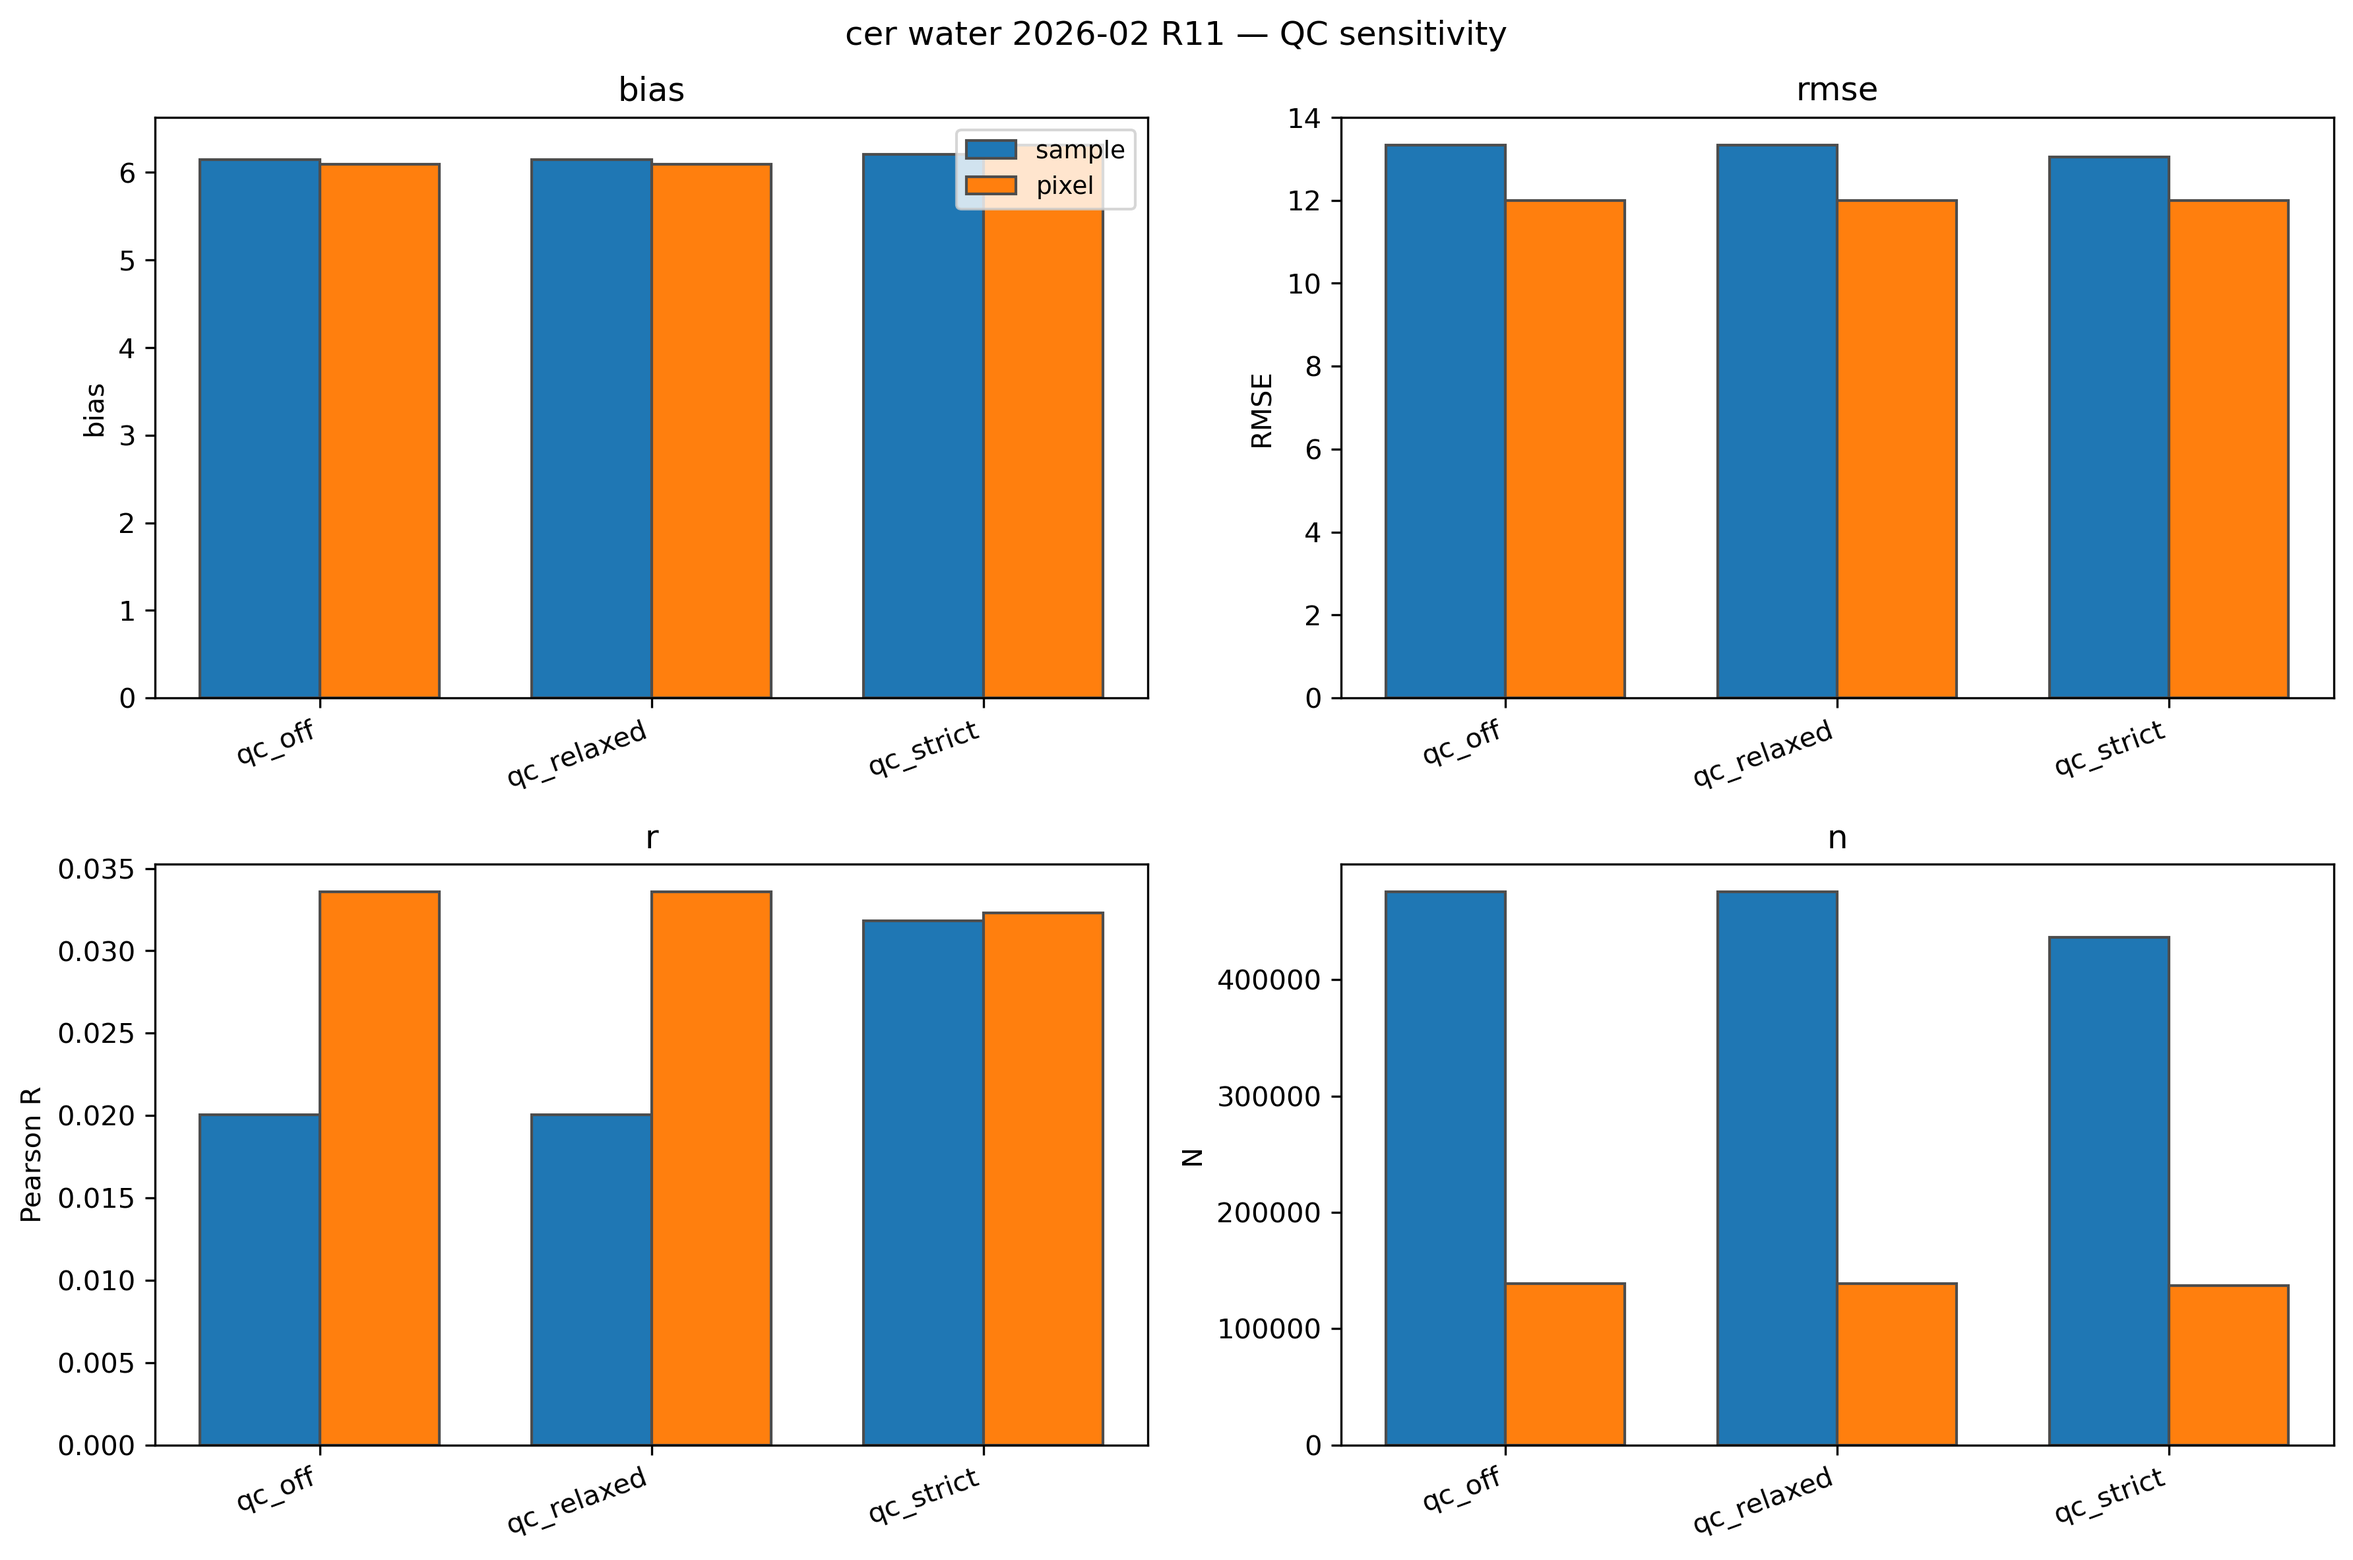
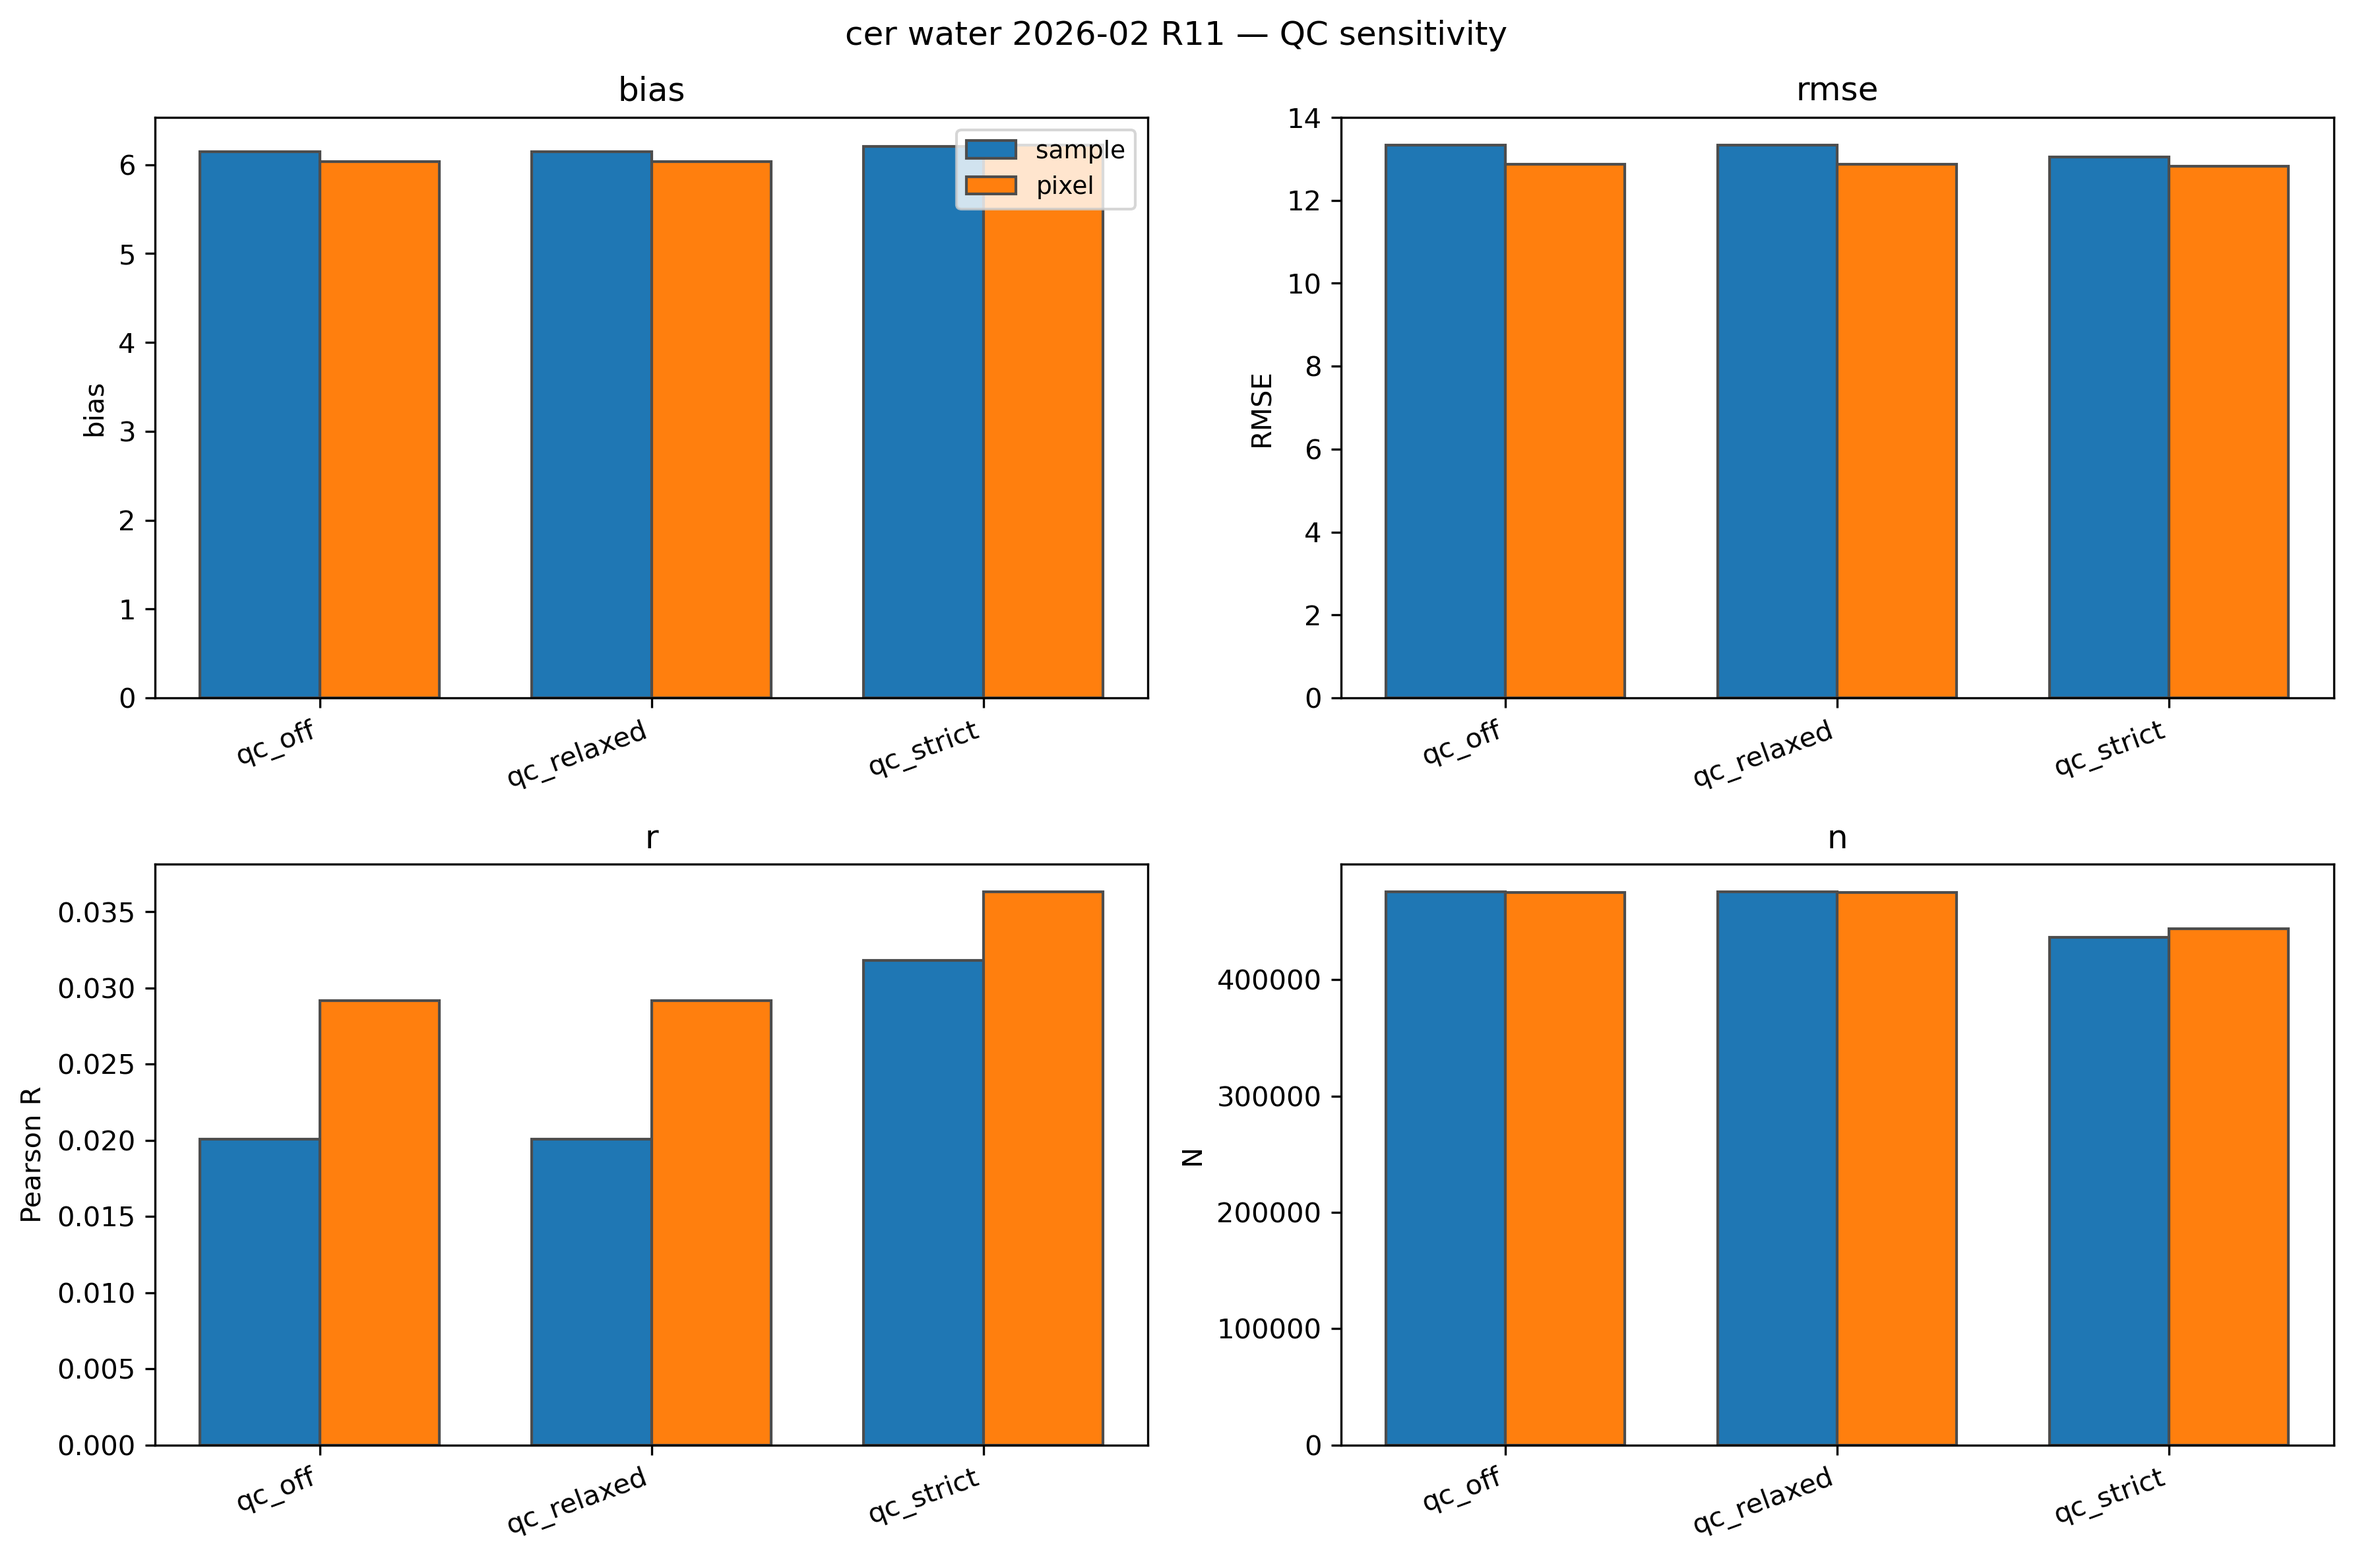
validation(synergy): redefine ice_present via liquid_classification == 3
Previously ice_present was set whenever any bin in the column had
ice_water_content > 0. Investigation of one marine-stratocumulus profile
showed ACM-CAP reports IWC > 0 in many non-cloud bins below cloud base
(drizzle / precipitation / virga). Cross-tabulation across a full frame
confirmed ~80% of bins with IWC > 0 have liquid_classification == 0
("not classified as cloud"). The previous flag was therefore rejecting
~60% of legitimate water-cloud profiles as "mixed".

Replace with liquid_classification == 3 ("in ice"): the bin-level flag
that means ACM-CAP detected the bin as cloud AND identified it as inside
an ice region. Strict, physically defensible, and consistent with the
ice mask now used in the track-panel curtain.

2026-02 R11 cot_water headline (qc_strict, pixel-aggregate):

  before  N=137,025  bias=+10.25  RMSE=48.27  R=0.001
  after   N=446,881  bias= +6.93  RMSE=43.71  R=0.024

Sample size triples; bias drops 33%. The remaining bias stays
concentrated in atlid_only profiles (CPR below threshold = thin
liquid, where ACM-CAP's variational retrieval underestimates τ).
phase_disagree_atlid_liquid stratum jumps from 3k → 138k pixels
with bias=-1.36 — the negative-bias regime where ORAC's phase
classifier disagrees with ACM-CAP's.

CER bias mostly unchanged (~+6 µm); sample size also triples.

diff --git a/validation/reference.py b/validation/reference.py
@@ -125,8 +125,11 @@ def cot_cer_water_from_accap(
         ``(n_profile, n_bin)`` int8: 0 none, 1 detected, 2 in-rain, 3 in-ice.
         Only ``== 1`` bins (clean liquid) contribute to the τ-weighted CER.
     ice_water_content
-        ``(n_profile, n_bin)`` per-bin ice [kg m⁻³], NaN fill. Used only
-        to derive ``ice_present`` — we never integrate ice τ.
+        ``(n_profile, n_bin)`` per-bin ice [kg m⁻³], NaN fill. Carried
+        for completeness; ``ice_present`` is derived from
+        ``liquid_classification`` instead because ACM-CAP reports IWC > 0
+        in non-cloud bins (drizzle / precip / virga falling out of the
+        cloud bottom) ~80% of the time, which would over-flag ice.
     height
         ``(n_profile, n_bin)`` per-profile altitude grid in m (top-down).
 
@@ -142,7 +145,8 @@ def cot_cer_water_from_accap(
         ``(n_profile,)`` bool — True when ``liquid_optical_depth > 0``.
     ice_present
         ``(n_profile,)`` bool — True when any bin in the column has
-        ``ice_water_content > 0``.
+        ``liquid_classification == 3`` ("in ice"). This is ACM-CAP's
+        bin-level "detected as cloud and inside an ice region" flag.
     """
     cot = np.asarray(liquid_optical_depth, dtype=np.float64)
 
@@ -163,8 +167,11 @@ def cot_cer_water_from_accap(
         re_um = np.where(den > 0, (num / den) * 1.0e6, np.nan)
 
     liquid_present = np.isfinite(cot) & (cot > 0)
-    iwc = np.where(np.isfinite(ice_water_content), ice_water_content, 0.0)
-    ice_present = (iwc > 0).any(axis=1)
+    # ice_water_content is unused for the ice-presence flag because ACM-CAP
+    # reports IWC > 0 in many non-cloud bins (drizzle / precip below cloud
+    # base). Use the bin-level liquid_classification == 3 ("in ice") flag
+    # instead — it's strict and physically defensible.
+    ice_present = (np.asarray(liquid_classification) == 3).any(axis=1)
 
     return cot, re_um, liquid_present, ice_present
 
